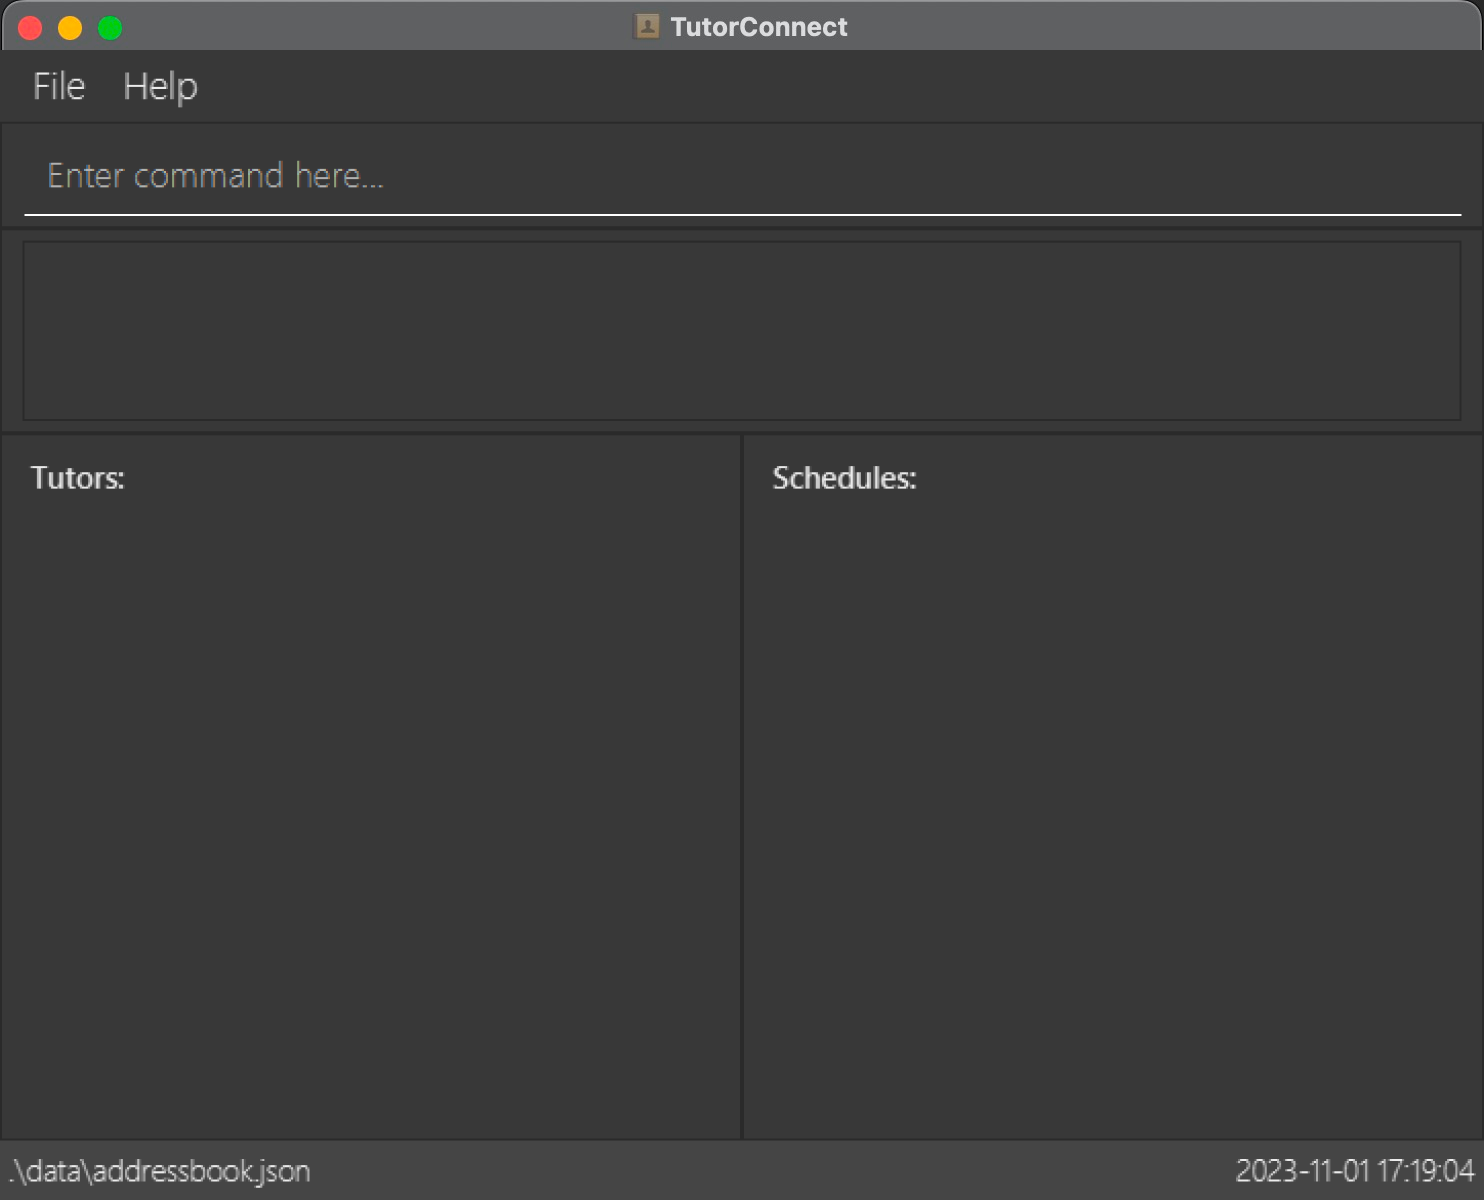
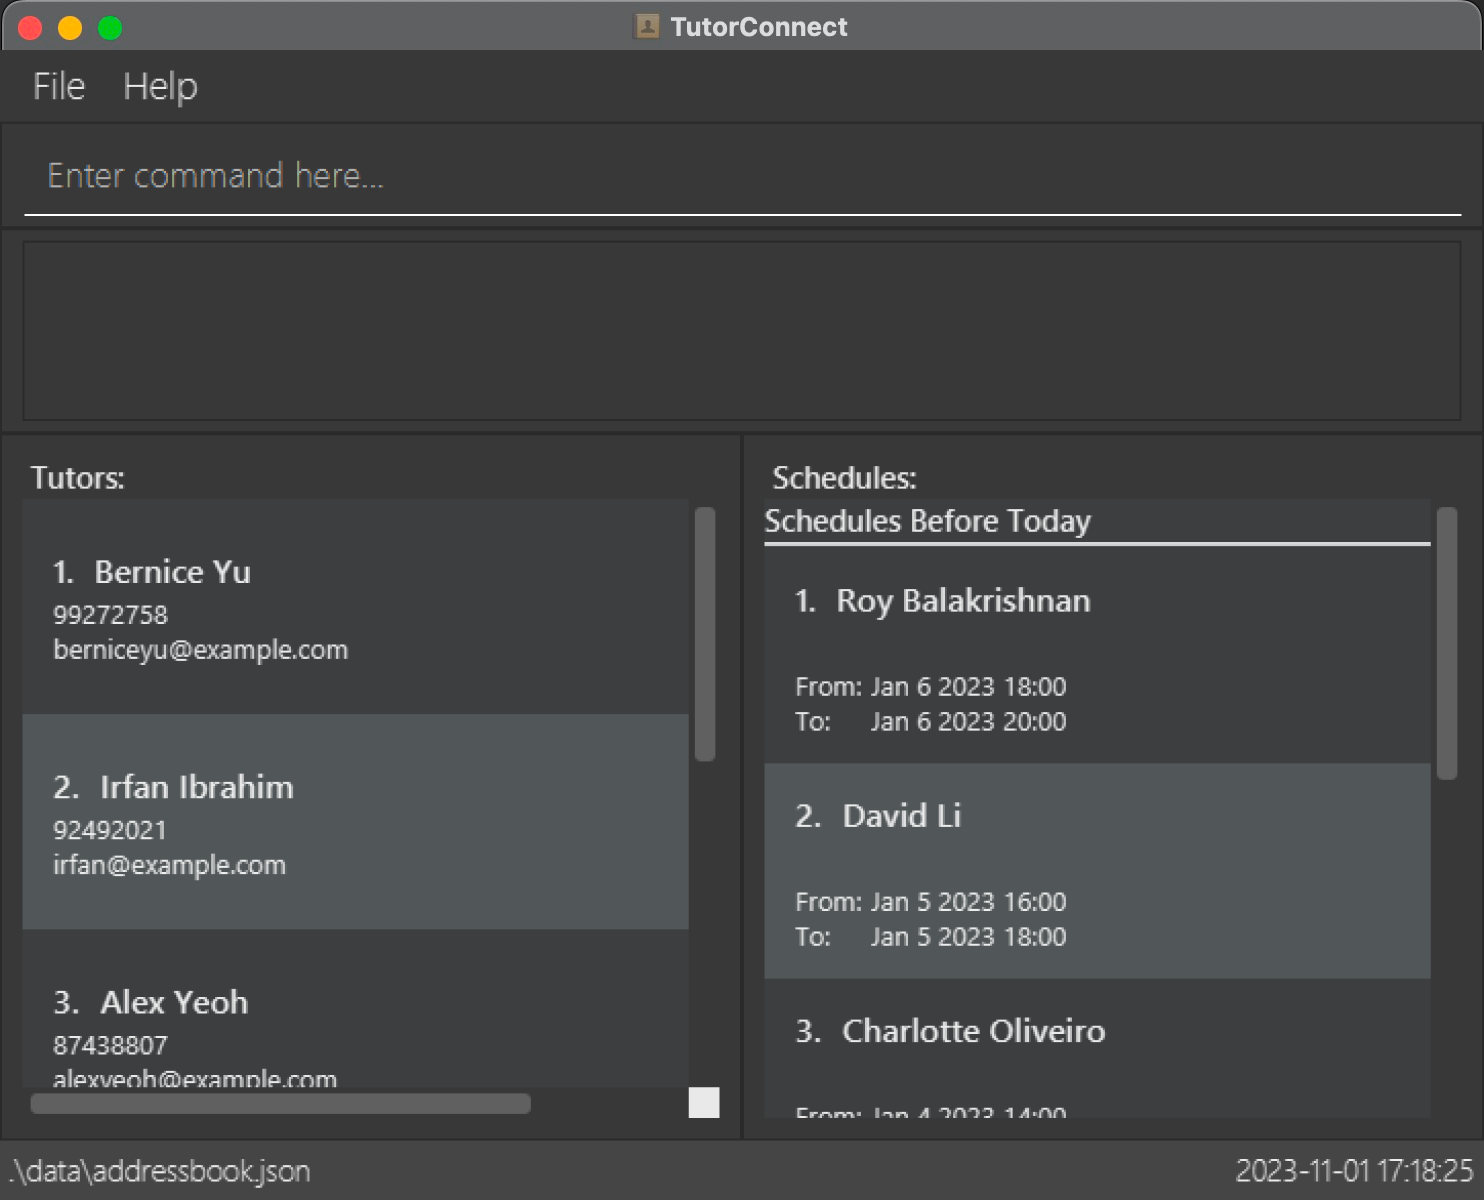
Update tutorial to show sample data

diff --git a/docs/UserGuide.md b/docs/UserGuide.md
@@ -144,7 +144,14 @@ Click on any of these below to jump to the respective sections of the guide!
 ### Start
 ![start](images/tutorial/start.png)
 
-When you first launch TutorConnect, you will be greeted with an empty screen with no tutors. It's time to start adding your tutors to TutorConnect.
+When you first launch TutorConnect, you will notice that it comes preloaded with sample data for you to experiment with.
+You may use the sample data to familiarize yourself with the various [features](#features) that TutorConnect provide.
+
+Alternatively, if you're ready to start with your own data, you can easily remove all the sample entries:
+1. Simply type into the Command Box: `clear`
+2. Hit enter
+
+Now it's time to start adding your tutors to TutorConnect!
 
 ### Adding your first tutor
 
